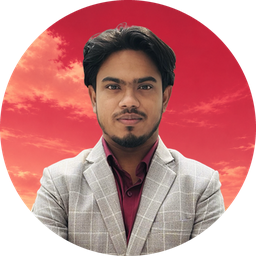
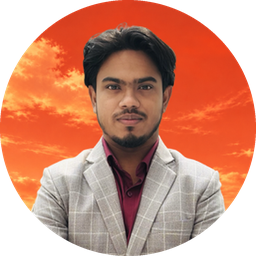
Use the new portrait, and stop the expand dropping frames
The hero avatar and all three icons come from the supplied photo. It
carries its own background, so the separate ring layer and the mask
offsets that positioned it are gone — one square image clipped to the
circle. icon.png and favicon.ico are masked to a circle through a 4x
downsample so the edge is properly antialiased; apple-icon.png stays
square, since iOS masks that one itself and a circle would float inside
its squircle with dead corners.

The expand was blanking and stuttering because the works are 2680x2160
— about 23MB of bitmap each. Two causes, both fixed: a fresh element
was decoding the file again, asynchronously, which is the blank first
frame, so the expanded image decodes synchronously now; and the
transform was animating an unpromoted layer, so it is given
will-change and a 3D transform for the duration and has both taken
back once it settles.

Measured over the first 32 frames of an expand: desktop worst frame
27.9ms down to a 6.9ms median, mobile 7.7ms worst with nothing over 25.

diff --git a/src/components/space/Showcase.tsx b/src/components/space/Showcase.tsx
@@ -100,10 +100,11 @@ export function Showcase() {
 
     if (el && from && !still) {
       const to = el.getBoundingClientRect();
+      el.style.willChange = "transform";
       el.style.transition = `transform ${FLIP_MS}ms var(--ease-smooth)`;
-      el.style.transform = `translate(${from.left + from.width / 2 - (to.left + to.width / 2)}px, ${
+      el.style.transform = `translate3d(${from.left + from.width / 2 - (to.left + to.width / 2)}px, ${
         from.top + from.height / 2 - (to.top + to.height / 2)
-      }px) scale(${from.width / to.width})`;
+      }px, 0) scale(${from.width / to.width})`;
     }
 
     setClosing(true);
@@ -137,15 +138,33 @@ export function Showcase() {
     if (window.matchMedia("(prefers-reduced-motion: reduce)").matches) return;
 
     const to = el.getBoundingClientRect();
+
+    /*
+      The works are 2680x2160 — roughly 23MB of bitmap once decoded. Animating
+      a transform on something that size is only smooth if the browser
+      rasterises it once and then moves the texture, so the element is promoted
+      to its own layer for the duration: `will-change` up front, and a 3D
+      transform so the promotion actually happens.
+
+      The hint comes off once the motion is over. Left on, it pins that 23MB
+      layer in memory for as long as the work stays open.
+    */
+    el.style.willChange = "transform";
     el.style.transition = "none";
-    el.style.transform = `translate(${from.left + from.width / 2 - (to.left + to.width / 2)}px, ${
+    el.style.transform = `translate3d(${from.left + from.width / 2 - (to.left + to.width / 2)}px, ${
       from.top + from.height / 2 - (to.top + to.height / 2)
-    }px) scale(${from.width / to.width})`;
+    }px, 0) scale(${from.width / to.width})`;
 
     void el.getBoundingClientRect();
 
     el.style.transition = `transform ${FLIP_MS}ms var(--ease-smooth)`;
-    el.style.transform = "none";
+    el.style.transform = "translate3d(0, 0, 0)";
+
+    const settle = window.setTimeout(() => {
+      el.style.willChange = "";
+    }, FLIP_MS + 60);
+
+    return () => window.clearTimeout(settle);
   }, [expanded, closing]);
 
   /*
@@ -358,6 +377,15 @@ export function Showcase() {
               src={SLIDES[expanded].src}
               alt={SLIDES[expanded].label}
               draggable={false}
+              /*
+                The carousel already holds this exact file, but a fresh element
+                decodes it again — and asynchronously, which is the blank frame
+                at the start of the expand. `sync` makes the browser finish the
+                decode before it paints, so the work is there on the first
+                frame instead of arriving partway through the motion.
+              */
+              decoding="sync"
+              fetchPriority="high"
               /*
                 Capped below the viewport so the work sits in some breathing
                 room rather than filling the screen edge to edge.

diff --git a/src/components/space/Hero.tsx b/src/components/space/Hero.tsx
@@ -7,9 +7,10 @@ import { StatusDot } from "./StatusDot";
  * Figma nodes 7:299 (avatar), 7:215 (name), 7:219 (bio), 7:218 + 7:294 (links),
  * 7:221 (buttons) and 7:228 (availability).
  *
- * The avatar is two layers clipped to the same 70×70 circle — Figma expresses
- * that as a pair of mask groups; the offsets below are those masks resolved
- * against a plain `overflow-hidden rounded-full` box.
+ * The avatar is one square photo clipped to a 70×70 circle. It used to be two
+ * layers — a portrait over a separate ring — because the frame's artwork came
+ * that way; the supplied photo carries its own background, so the ring and the
+ * mask offsets that positioned it are gone.
  *
  * The hero staggers in on load rather than on scroll: everything here is above
  * the fold, so the reveals fire immediately, 60ms apart.
@@ -30,20 +31,11 @@ export function Hero() {
         className="mt-[60px] size-[70px] overflow-hidden rounded-full transition-transform duration-500 ease-[var(--ease-smooth)] hover:scale-[1.06]"
         delay={60}
       >
-        <span className="relative block size-full">
-          <img
-            src="/figma/avatar-ring.png"
-            alt=""
-            className="absolute left-[-27px] top-[-3px] block h-[100px] w-[133px] max-w-none object-cover"
-          />
-          <span className="absolute left-[-14.875px] top-[-9.375px] block size-[98.875px] overflow-hidden rounded-full">
-            <img
-              src="/figma/avatar-photo.png"
-              alt="Sajidur Rahman"
-              className="absolute left-0 top-[10.76%] size-full max-w-none"
-            />
-          </span>
-        </span>
+        <img
+          src="/figma/p.png"
+          alt="Sajidur Rahman"
+          className="block size-full object-cover"
+        />
       </Reveal>
 
       <Reveal className="mt-[24px] flex flex-col items-start gap-[21px] text-ink" delay={120}>
